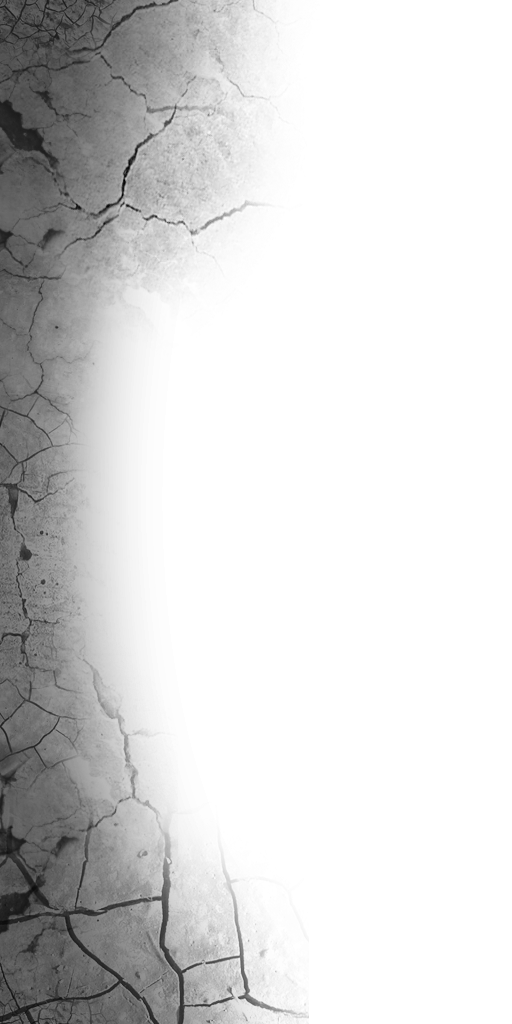
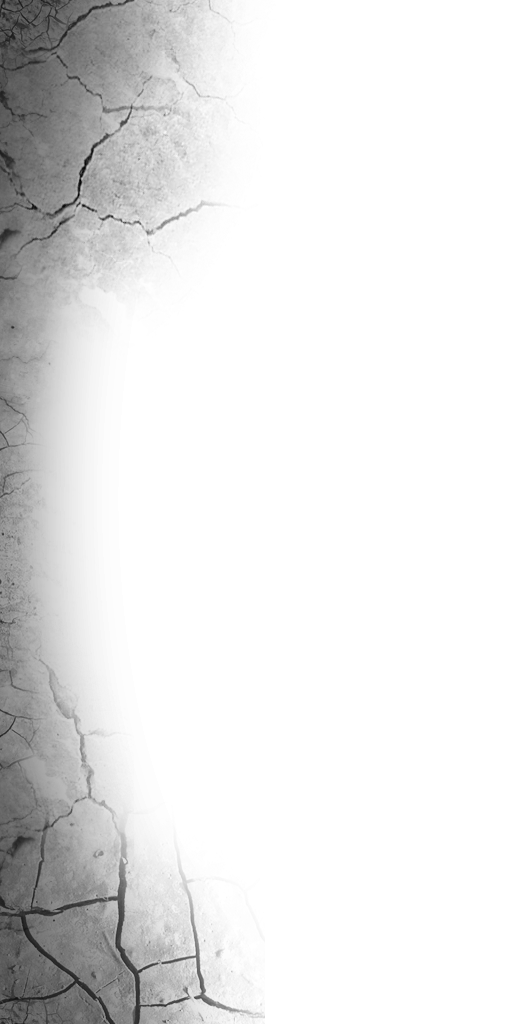
Added more side foliage
+ Added more side foliage
+ Did some renaming to clean up code
+ Added a flip option on the resize4PointPlane function.

Changed region(s): [[0.0, 0.0, 0.5938, 1.0]]

diff --git a/Manticore/war/js/main.js b/Manticore/war/js/main.js
@@ -14,7 +14,7 @@ SCREEN_HEIGHT_HALF = SCREEN_HEIGHT / 2;
 var camera, scene, renderer, 
 birds, bird, boid, boids, 
 stats, 
-surface_corner1, surface_corner2, surface_long1, surface_cracks1,
+surface_corner1, surface_corner2, botRightGeo1, botRightGeo2, surface_cracks1, surface_cracks2,
 clock = new THREE.Clock();
 
 init();
@@ -69,6 +69,7 @@ function init() {
 	 * 											*
 	 * 		Creates items needed for the HUD	*
 	 */
+	// Bottom left texture 01 ;;;;;;;;;;;;;;;;;;;;;;;;;;;;;;;;;;;;;;;;;;;;;;;;;;;;;;;;;;;;;;;;;;;;;;;;;;;
 	
 	// Texture that has all pixels at u=0 and v set to white, all else set to black.
 	var transitionTexture = new THREE.ImageUtils.loadTexture('images/ShiftToWhite_Soft_512.png');
@@ -101,7 +102,7 @@ function init() {
 	HUDCamera.add(surface_corner1);
 	surface_corner1.position.set(-SCREEN_WIDTH_HALF+120,-SCREEN_HEIGHT_HALF+120,-1.0);
 	
-	// Texture 2
+	// Bottom left texture 02 ;;;;;;;;;;;;;;;;;;;;;;;;;;;;;;;;;;;;;;;;;;;;;;;;;;;;;;;;;;;;;;;;;;;;;;;;;;;
 	var growthTexture02 = new THREE.ImageUtils.loadTexture('images/corner_test02.png');
 	this.growthUniform02 = {
 			baseTexture: 		{ type: "t", value: growthTexture02 },
@@ -125,10 +126,10 @@ function init() {
 	HUDScene.add(surface_corner2);
 	surface_corner2.position.set(-SCREEN_WIDTH_HALF+120,-SCREEN_HEIGHT_HALF+120,-2.0);
 	
-	// Texture 3
-	var growthTexture03 = new THREE.ImageUtils.loadTexture('images/long_test01.png');
-	this.growthUniform03 = {
-			baseTexture: 		{ type: "t", value: growthTexture03 },
+	// Bottom right texture 01 ;;;;;;;;;;;;;;;;;;;;;;;;;;;;;;;;;;;;;;;;;;;;;;;;;;;;;;;;;;;;;;;;;;;;;;;;;;;
+	var botRightTex1 = new THREE.ImageUtils.loadTexture('images/corner_test03.png');
+	this.botRightUniform1 = {
+			baseTexture: 		{ type: "t", value: botRightTex1 },
 			transitionTexture: 	{ type: "t", value: transitionTexture },	
 			baseSpeed: 			{ type: "f", value: 0.4 },
 			time: 				{ type: "f", value: 0.0 },					// Start position
@@ -136,45 +137,96 @@ function init() {
 			moveY:				{ type: "f", value: 0.0},					// Amount to move in Y
 			alphaMult:			{ type: "f", value: 1.0}
 		};
-	var growth03Material = new THREE.ShaderMaterial({
-		uniforms : growthUniform03,
+	var botRightMaterial01 = new THREE.ShaderMaterial({
+		uniforms : botRightUniform1,
 		vertexShader : document.getElementById('vertexShader').innerHTML,
 		fragmentShader : document.getElementById('transitionShader').innerHTML
 	});
-	growth03Material.transparent = true;
-	var flatGeometry3 = new THREE.PlaneGeometry(1024, 128, 1, 1);
-	surface_long1 = new THREE.Mesh(flatGeometry3, growth03Material);
-	surface_long1.material.side = THREE.DoubleSide;
-	HUDCamera.add(surface_long1);
-	HUDScene.add(surface_long1);
-	surface_long1.rotation.y=Math.PI;
-	surface_long1.position.set(SCREEN_WIDTH_HALF-180,-SCREEN_HEIGHT_HALF,-3.0);
+	botRightMaterial01.transparent = true;
+	var botGeometry1 = new THREE.PlaneGeometry(800, 200, 1, 1);
+	botRightGeo1 = new THREE.Mesh(botGeometry1, botRightMaterial01);
+	botRightGeo1.material.side = THREE.DoubleSide;
+	HUDCamera.add(botRightGeo1);
+	HUDScene.add(botRightGeo1);
+	botRightGeo1.rotation.y=Math.PI;
+	botRightGeo1.position.set(SCREEN_WIDTH_HALF-400,-SCREEN_HEIGHT_HALF+100,-4.0);
 	
-	// Texture 4
-	var growthTexture04 = new THREE.ImageUtils.loadTexture('images/SideCracks.png');
+	// Bottom right texture 02 ;;;;;;;;;;;;;;;;;;;;;;;;;;;;;;;;;;;;;;;;;;;;;;;;;;;;;;;;;;;;;;;;;;;;;;;;;;;
+	var botRightTex2 = new THREE.ImageUtils.loadTexture('images/corner_test04.png');
+	this.botRightUniform2 = {
+			baseTexture: 		{ type: "t", value: botRightTex2 },
+			transitionTexture: 	{ type: "t", value: transitionTexture },	
+			baseSpeed: 			{ type: "f", value: 0.2 },
+			time: 				{ type: "f", value: 0.0 },					// Start position
+			moveX:				{ type: "f", value: -1.0},					// Amount to move in X
+			moveY:				{ type: "f", value: 0.0},					// Amount to move in Y
+			alphaMult:			{ type: "f", value: 1.0}
+		};
+	var botRightMaterial02 = new THREE.ShaderMaterial({
+		uniforms : botRightUniform2,
+		vertexShader : document.getElementById('vertexShader').innerHTML,
+		fragmentShader : document.getElementById('transitionShader').innerHTML
+	});
+	botRightMaterial02.transparent = true;
+	var botGeometry2 = new THREE.PlaneGeometry(800, 200, 1, 1);
+	botRightGeo2 = new THREE.Mesh(botGeometry2, botRightMaterial02);
+	botRightGeo2.material.side = THREE.DoubleSide;
+	HUDCamera.add(botRightGeo2);
+	HUDScene.add(botRightGeo2);
+	botRightGeo2.rotation.y=Math.PI;
+	botRightGeo2.position.set(SCREEN_WIDTH_HALF-400,-SCREEN_HEIGHT_HALF+100,-4.0);
+	
+	
+	
+	// Cracked texture 01 ;;;;;;;;;;;;;;;;;;;;;;;;;;;;;;;;;;;;;;;;;;;;;;;;;;;;;;;;;;;;;;;;;;;;;;;;;;;
+	var crackTexture01 = new THREE.ImageUtils.loadTexture('images/SideCracks.png');
 	var transitionTexture02 = new THREE.ImageUtils.loadTexture('images/ShiftToWhite_Softer_512.png');
-	this.growthUniform04 = {
-			baseTexture: 		{ type: "t", value: growthTexture04 },
+	this.crackUniform01 = {
+			baseTexture: 		{ type: "t", value: crackTexture01 },
 			transitionTexture: 	{ type: "t", value: transitionTexture02 },	
-			baseSpeed: 			{ type: "f", value: 0.4 },
+			baseSpeed: 			{ type: "f", value: 0.1 },
 			time: 				{ type: "f", value: 0.0 },					// Start position
 			moveX:				{ type: "f", value: -1.0},					// Amount to move in X
 			moveY:				{ type: "f", value: 0.0},					// Amount to move in Y
 			alphaMult:			{ type: "f", value: 0.7}
 		};
-	var growth04Material = new THREE.ShaderMaterial({
-		uniforms : growthUniform04,
+	var crackMaterial01 = new THREE.ShaderMaterial({
+		uniforms : crackUniform01,
 		vertexShader : document.getElementById('vertexShader').innerHTML,
 		fragmentShader : document.getElementById('transitionShader').innerHTML
 	});
-	growth04Material.transparent = true;
-	var flatGeometry4 = new THREE.PlaneGeometry(SCREEN_HEIGHT/2, SCREEN_HEIGHT, 1, 1);
-	surface_cracks1 = new THREE.Mesh(flatGeometry4, growth04Material);
+	crackMaterial01.transparent = true;
+	var flatCrackGeometry1 = new THREE.PlaneGeometry(SCREEN_HEIGHT/2, SCREEN_HEIGHT, 1, 1);
+	surface_cracks1 = new THREE.Mesh(flatCrackGeometry1, crackMaterial01);
 	surface_cracks1.material.side = THREE.DoubleSide;
 	HUDCamera.add(surface_cracks1);
 	HUDScene.add(surface_cracks1);
-	//resize4PointPlane(surface_cracks1,-SCREEN_WIDTH_HALF,SCREEN_HEIGHT,SCREEN_HEIGHT_HALF);
-	resize4PointPlane(surface_cracks1,-SCREEN_WIDTH_HALF,-SCREEN_HEIGHT_HALF,SCREEN_HEIGHT,SCREEN_HEIGHT_HALF,-4.0);
+	resize4PointPlane(surface_cracks1,false,-SCREEN_WIDTH_HALF,-SCREEN_HEIGHT_HALF,SCREEN_HEIGHT,SCREEN_HEIGHT_HALF,-5.0);
+	
+	// Cracked texture 02 ;;;;;;;;;;;;;;;;;;;;;;;;;;;;;;;;;;;;;;;;;;;;;;;;;;;;;;;;;;;;;;;;;;;;;;;;;;;
+	var crackTexture02 = new THREE.ImageUtils.loadTexture('images/SideCracks2.png');
+	this.crackUniform02 = {
+			baseTexture: 		{ type: "t", value: crackTexture02 },
+			transitionTexture: 	{ type: "t", value: transitionTexture02 },	
+			baseSpeed: 			{ type: "f", value: 0.1 },
+			time: 				{ type: "f", value: 0.0 },					// Start position
+			moveX:				{ type: "f", value: -1.0},					// Amount to move in X
+			moveY:				{ type: "f", value: 0.0},					// Amount to move in Y
+			alphaMult:			{ type: "f", value: 0.7}
+		};
+	var crackMaterial02 = new THREE.ShaderMaterial({
+		uniforms : crackUniform02,
+		vertexShader : document.getElementById('vertexShader').innerHTML,
+		fragmentShader : document.getElementById('transitionShader').innerHTML
+	});
+	crackMaterial02.transparent = true;
+	var flatCrackGeometry2 = new THREE.PlaneGeometry(SCREEN_HEIGHT/2, SCREEN_HEIGHT, 1, 1);
+	surface_cracks2 = new THREE.Mesh(flatCrackGeometry2, crackMaterial02);
+	surface_cracks2.material.side = THREE.DoubleSide;
+	HUDCamera.add(surface_cracks2);
+	HUDScene.add(surface_cracks2);
+	resize4PointPlane(surface_cracks2,true,SCREEN_WIDTH_HALF,-SCREEN_HEIGHT_HALF,SCREEN_HEIGHT,SCREEN_HEIGHT_HALF,-6.0);
+	
 	
 	
 	/**							*
@@ -206,8 +258,6 @@ function init() {
 function onWindowResize() {
 	/** Match bird camera and renderer to new browser window size
 	 * 
-	 * Do NOT update the HUD angles, so that the HUD does not get displaced
-	 * due to FOV
 	 */
 	
 	birdCamera.aspect = window.innerWidth / window.innerHeight;
@@ -222,20 +272,24 @@ function onWindowResize() {
 	
 	surface_corner1.position.set(-window.innerWidth/2+120,-window.innerHeight/2+120,-1.0);
 	surface_corner2.position.set(-window.innerWidth/2+120,-window.innerHeight/2+120,-2.0);
-	surface_long1.position.set(window.innerWidth/2-180,-window.innerHeight/2,-3.0);
-	resize4PointPlane(surface_cracks1,-(window.innerWidth/2),-(window.innerHeight/2),window.innerHeight,window.innerHeight/2,-4.0);
+	botRightGeo1.position.set(window.innerWidth/2-400,-window.innerHeight/2+100,-4.0);
+	botRightGeo2.position.set(window.innerWidth/2-400,-window.innerHeight/2+100,-4.0);
+	resize4PointPlane(surface_cracks1,false,-(window.innerWidth/2),-(window.innerHeight/2),window.innerHeight,window.innerHeight/2,-5.0);
+	resize4PointPlane(surface_cracks2,true,(window.innerWidth/2),-(window.innerHeight/2),window.innerHeight,window.innerHeight/2,-6.0);
 	
 	renderer.setSize(window.innerWidth, window.innerHeight);
 }
 
 
-function resize4PointPlane(mesh, posX, posY, height, width, depth) {
+function resize4PointPlane(mesh, isRotated, posX, posY, height, width, depth) {
 	/**	Used to resize a 4 pointed mesh that has the following vertices order:
 	 * 
-	 * 				0------1
-	 * 				|	   |
+	 * 				0------1                      
+	 * 				|	   |     
 	 * 				|      |
 	 * 				2------3
+	 * 
+	 *  If isRotated is true, it will flip the mesh horizontally
 	 * 
 	 * @param mesh:		Mesh to resize
 	 * @param posX:		Bottom left X position to place		
@@ -244,17 +298,22 @@ function resize4PointPlane(mesh, posX, posY, height, width, depth) {
 	 * @param width:	Width to resize plane
 	 * @param depth:	Depth in Z to place
 	 */
-	
 	mesh.geometry.vertices[0].y=posY+height;
 	mesh.geometry.vertices[1].y=posY+height;
 	mesh.geometry.vertices[2].y=posY;
 	mesh.geometry.vertices[3].y=posY;
-	
-	mesh.geometry.vertices[0].x=posX;
-	mesh.geometry.vertices[1].x=posX+width;
-	mesh.geometry.vertices[2].x=posX;
-	mesh.geometry.vertices[3].x=posX+width;
-	
+	if (!isRotated){
+		mesh.geometry.vertices[0].x=posX;
+		mesh.geometry.vertices[1].x=posX+width;
+		mesh.geometry.vertices[2].x=posX;
+		mesh.geometry.vertices[3].x=posX+width;
+	}
+	else{
+		mesh.geometry.vertices[0].x=posX;
+		mesh.geometry.vertices[1].x=posX-width;
+		mesh.geometry.vertices[2].x=posX;
+		mesh.geometry.vertices[3].x=posX-width;
+	}
 	mesh.geometry.vertices[0].z=depth;
 	mesh.geometry.vertices[1].z=depth;
 	mesh.geometry.vertices[2].z=depth;
@@ -288,8 +347,10 @@ function update() {
 	var delta = clock.getDelta();
 	growthUniform01.time.value += 0.01;
 	growthUniform02.time.value += 0.01;
-	growthUniform03.time.value += 0.01;
-	growthUniform04.time.value += 0.01;
+	botRightUniform1.time.value += 0.01;
+	botRightUniform2.time.value += 0.01;
+	crackUniform01.time.value += 0.01;
+	crackUniform02.time.value += 0.01;
 }
 
 
@@ -304,8 +365,10 @@ function setHUDRenderOrder(){
 	 */
 	surface_corner1.renderDepth=0;
 	surface_corner2.renderDepth=1;
-	surface_long1.renderDepth=2;
-	surface_cracks1.renderDepth=3;
+	botRightGeo1.renderDepth=2;
+	botRightGeo2.renderDepth=3;
+	surface_cracks1.renderDepth=4;
+	surface_cracks2.renderDepth=5;
 }
 
 function render() {
